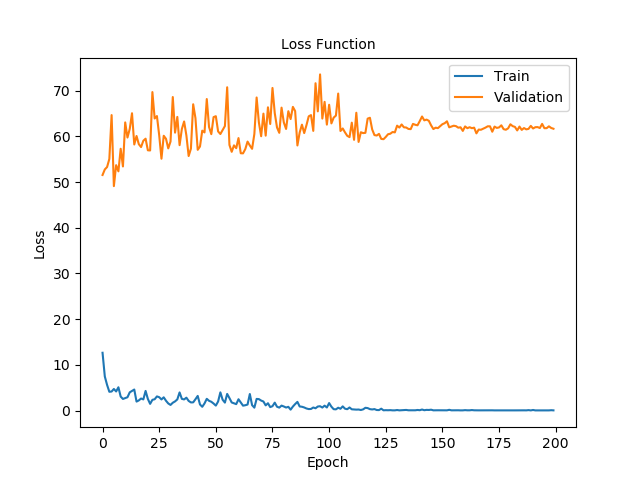
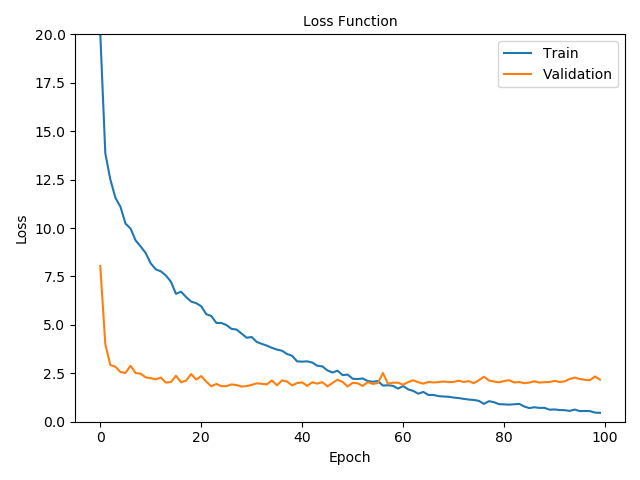
v.final

diff --git a/TP1_batchsize.py b/TP1_batchsize.py
@@ -1,0 +1,187 @@
+from minicifar import minicifar_train, minicifar_test, train_sampler, valid_sampler
+from torch.utils.data.dataloader import DataLoader
+
+"""Train CIFAR10 with PyTorch."""
+import torch
+import torch.nn as nn
+import torch.optim as optim
+import torch.nn.functional as F
+import torch.backends.cudnn as cudnn
+
+import torchvision
+import torchvision.transforms as transforms
+
+import os
+import argparse
+
+import matplotlib.pyplot as plt
+
+from models import *
+from utils import progress_bar
+
+
+parser = argparse.ArgumentParser(description="PyTorch CIFAR10 Training")
+# parser.add_argument("--lr", default=0.1, type=float, help="learning rate")
+parser.add_argument("--resume", "-r", action="store_true", help="resume from checkpoint")
+parser.add_argument("--nepochs", "-n", default=100, type=int, help="number of epochs")
+args = parser.parse_args()
+
+device = "cuda" if torch.cuda.is_available() else "cpu"
+best_acc = 0  # best test accuracy
+start_epoch = 0  # start from epoch 0 or last checkpoint epoch
+
+loss_train = []
+loss_test = []
+# n_epochs = 50
+n_epochs = args.nepochs
+
+# Data
+print("==> Preparing data..")
+transform_train = transforms.Compose(
+    [
+        transforms.RandomCrop(32, padding=4),
+        transforms.RandomHorizontalFlip(),
+        transforms.ToTensor(),
+        transforms.Normalize((0.4914, 0.4822, 0.4465), (0.2023, 0.1994, 0.2010)),
+    ]
+)
+
+transform_test = transforms.Compose(
+    [
+        transforms.ToTensor(),
+        transforms.Normalize((0.4914, 0.4822, 0.4465), (0.2023, 0.1994, 0.2010)),
+    ]
+)
+
+# Model
+print("==> Building model..")
+net = VGG("VGG11")
+
+net = net.to(device)
+if device == "cuda":
+    net = torch.nn.DataParallel(net)
+    cudnn.benchmark = True
+
+if args.resume:
+    # Load checkpoint.
+    print("==> Resuming from checkpoint..")
+    assert os.path.isdir("checkpoint"), "Error: no checkpoint directory found!"
+    checkpoint = torch.load("./checkpoint/ckpt.pth")
+    net.load_state_dict(checkpoint["net"])
+    best_acc = checkpoint["acc"]
+    start_epoch = checkpoint["epoch"]
+
+
+fig1 = plt.figure()
+
+for batch_size in [50, 100, 200, 400, 800]:
+    trainloader = DataLoader(minicifar_train, batch_size=batch_size, sampler=train_sampler)
+    validloader = DataLoader(minicifar_train, batch_size=batch_size, sampler=valid_sampler)
+    testloader = DataLoader(minicifar_test, batch_size=batch_size)
+
+    # Training
+    def train(epoch):
+        global loss_train
+        print("\nEpoch: %d" % epoch)
+        net.train()
+        train_loss = 0
+        correct = 0
+        total = 0
+        for batch_idx, (inputs, targets) in enumerate(trainloader):
+            inputs, targets = inputs.to(device), targets.to(device)
+            optimizer.zero_grad()
+            outputs = net(inputs)
+            loss = criterion(outputs, targets)
+            loss.backward()
+            optimizer.step()
+
+            train_loss += loss.item()
+            _, predicted = outputs.max(1)
+            total += targets.size(0)
+            correct += predicted.eq(targets).sum().item()
+
+            progress_bar(
+                batch_idx,
+                len(trainloader),
+                "Loss: %.3f | Acc: %.3f%% (%d/%d)"
+                % (train_loss / (batch_idx + 1), 100.0 * correct / total, correct, total),
+            )
+
+        loss_train.append(train_loss)
+
+    def test(epoch):
+        global best_acc
+        global loss_test
+        net.eval()
+        test_loss = 0
+        correct = 0
+        total = 0
+        with torch.no_grad():
+            for batch_idx, (inputs, targets) in enumerate(testloader):
+                inputs, targets = inputs.to(device), targets.to(device)
+                outputs = net(inputs)
+                loss = criterion(outputs, targets)
+
+                test_loss += loss.item()
+                _, predicted = outputs.max(1)
+                total += targets.size(0)
+                correct += predicted.eq(targets).sum().item()
+
+                progress_bar(
+                    batch_idx,
+                    len(testloader),
+                    "Loss: %.3f | Acc: %.3f%% (%d/%d)"
+                    % (test_loss / (batch_idx + 1), 100.0 * correct / total, correct, total),
+                )
+
+            loss_test.append(test_loss)
+
+        # Save checkpoint.
+        acc = 100.0 * correct / total
+        # if acc > best_acc:
+        #     print("Saving..")
+        #     state = {
+        #         "net": net.state_dict(),
+        #         "acc": acc,
+        #         "epoch": epoch,
+        #     }
+        #     if not os.path.isdir("checkpoint"):
+        #         os.mkdir("checkpoint")
+        #     torch.save(state, "./checkpoint/ckpt.pth")
+        #     best_acc = acc
+
+    def init_weights(layer):
+        # If convolutional layer, initialize with normal distribution
+        if type(layer) == nn.Conv2d:
+            nn.init.normal_(layer.weight, mean=0, std=0.5)
+        # If fully connected layer, initialize with uniform distribution with bias=0.1
+        elif type(layer) == nn.Linear:
+            nn.init.uniform_(layer.weight, a=-0.1, b=0.1)
+            nn.init.constant_(layer.bias, 0.1)
+
+    net.apply(init_weights)
+
+    loss_train = []
+    loss_test = []
+
+    criterion = nn.CrossEntropyLoss()
+    optimizer = optim.SGD(net.parameters(), lr=0.1, momentum=0.5, weight_decay=5e-4)
+    #! momentum=0.9, weight_decay=5e-4
+    scheduler = torch.optim.lr_scheduler.CosineAnnealingLR(optimizer, T_max=200)
+
+    for epoch in range(start_epoch, start_epoch + n_epochs):
+        train(epoch)
+        test(epoch)
+        scheduler.step()
+
+    plt.plot(range(n_epochs), loss_train, label=f"Train_batch={batch_size}")
+    plt.plot(range(n_epochs), loss_test, label=f"Validation_batch={batch_size}")
+
+plt.legend()  # prop={"size": 10}
+plt.title("Loss Function", size=10)
+plt.xlabel("Epoch", size=10)
+plt.ylabel("Loss", size=10)
+plt.ylim(ymax=20, ymin=0)
+plt.show()
+fig1.tight_layout()
+fig1.savefig("TP1_report/figure1.png")

diff --git a/TP1.py b/TP1.py
@@ -1,9 +1,9 @@
 from minicifar import minicifar_train, minicifar_test, train_sampler, valid_sampler
 from torch.utils.data.dataloader import DataLoader
 
-trainloader = DataLoader(minicifar_train, batch_size=200, sampler=train_sampler)
-validloader = DataLoader(minicifar_train, batch_size=200, sampler=valid_sampler)
-testloader = DataLoader(minicifar_test, batch_size=200)
+trainloader = DataLoader(minicifar_train, batch_size=800, sampler=train_sampler)
+validloader = DataLoader(minicifar_train, batch_size=800, sampler=valid_sampler)
+testloader = DataLoader(minicifar_test, batch_size=800)
 
 
 """Train CIFAR10 with PyTorch."""
@@ -26,7 +26,7 @@ from utils import progress_bar
 
 
 parser = argparse.ArgumentParser(description="PyTorch CIFAR10 Training")
-parser.add_argument("--lr", default=0.1, type=float, help="learning rate")
+parser.add_argument("--lr", default=0.03, type=float, help="learning rate")
 parser.add_argument("--resume", "-r", action="store_true", help="resume from checkpoint")
 parser.add_argument("--nepochs", "-n", default=100, type=int, help="number of epochs")
 args = parser.parse_args()
@@ -58,31 +58,10 @@ transform_test = transforms.Compose(
     ]
 )
 
-# trainset = torchvision.datasets.CIFAR10(root="./data", train=True, download=True, transform=transform_train)
-# trainloader = torch.utils.data.DataLoader(trainset, batch_size=128, shuffle=True, num_workers=2)
-
-# testset = torchvision.datasets.CIFAR10(root="./data", train=False, download=True, transform=transform_test)
-# testloader = torch.utils.data.DataLoader(testset, batch_size=100, shuffle=False, num_workers=2)
-
-# classes = ("plane", "car", "bird", "cat", "deer", "dog", "frog", "horse", "ship", "truck")
-
 # Model
 print("==> Building model..")
 net = VGG("VGG11")
-# net = ResNet18()
-# net = PreActResNet18()
-# net = GoogLeNet()
-# net = DenseNet121()
-# net = ResNeXt29_2x64d()
-# net = MobileNet()
-# net = MobileNetV2()
-# net = DPN92()
-# net = ShuffleNetG2()
-# net = SENet18()
-# net = ShuffleNetV2(1)
-# net = EfficientNetB0()
-# net = RegNetX_200MF()
-# net = SimpleDLA()
+
 net = net.to(device)
 if device == "cuda":
     net = torch.nn.DataParallel(net)
@@ -98,7 +77,7 @@ if args.resume:
     start_epoch = checkpoint["epoch"]
 
 criterion = nn.CrossEntropyLoss()
-optimizer = optim.SGD(net.parameters(), lr=args.lr, momentum=0.5, weight_decay=1e-3)
+optimizer = optim.SGD(net.parameters(), lr=args.lr, momentum=0.5, weight_decay=5e-4)
 #! momentum=0.9, weight_decay=5e-4
 scheduler = torch.optim.lr_scheduler.CosineAnnealingLR(optimizer, T_max=200)
 
@@ -190,10 +169,7 @@ plt.legend(["Train", "Validation"], prop={"size": 10})
 plt.title("Loss Function", size=10)
 plt.xlabel("Epoch", size=10)
 plt.ylabel("Loss", size=10)
+plt.ylim(ymax=20, ymin=0)
 plt.show()
 fig1.tight_layout()
 fig1.savefig("TP1_report/figure1.png")
-
-
-# TODO
-# Try to play with hyperparameters e.g. batch, epoch, lr, optimizer

diff --git a/TP1_hyperparameters.py b/TP1_hyperparameters.py
@@ -145,17 +145,17 @@ def test(epoch):
 
     # Save checkpoint.
     acc = 100.0 * correct / total
-    if acc > best_acc:
-        print("Saving..")
-        state = {
-            "net": net.state_dict(),
-            "acc": acc,
-            "epoch": epoch,
-        }
-        if not os.path.isdir("checkpoint"):
-            os.mkdir("checkpoint")
-        torch.save(state, "./checkpoint/ckpt.pth")
-        best_acc = acc
+    # if acc > best_acc:
+    #     print("Saving..")
+    #     state = {
+    #         "net": net.state_dict(),
+    #         "acc": acc,
+    #         "epoch": epoch,
+    #     }
+    #     if not os.path.isdir("checkpoint"):
+    #         os.mkdir("checkpoint")
+    #     torch.save(state, "./checkpoint/ckpt.pth")
+    #     best_acc = acc
 
 
 def init_weights(layer):

diff --git a/minicifar.py b/minicifar.py
@@ -7,6 +7,7 @@
 # Reduction factor R (which will result in 10000 /  R examples per class for the train set, and 1000 / R per class for test)
 # --
 
+#!
 
 n_classes_minicifar = 4
 train_size = 0.8

diff --git a/TP1_report/TP1_report.md b/TP1_report/TP1_report.md
@@ -18,6 +18,9 @@ Choose a model among the following ones :
 
 Next, adapt its hyperparameters to make the model suitable for MINICIFAR, and train it from scratch. 
 
+### Architecture of VGG
+
+
 ### Play with hyperparameters
 
 **Hyperparameters to modify:**
@@ -66,20 +69,20 @@ This figure shows the loss function with different `batch_size`. In this case we
 ### Deal with overfitting
 
 **Main idea:** `weight_decay` -> `VGG11` -> More data
+To deal with overfitting, we firstly think about regularization by using `weight_decay`. Unfortunately we were not able to obtain satisfactory results and it is easy to cause underfitting.
 
+We then considered reducing the depth of the network, so we tried VGG11. This time our overfitting improved and the network was computed faster.
 
+Later, we noticed that we were using only one-fifth of the dataset, and increasing the number of samples is always the most efficient way to solve overfitting. The cost is higher storage space requirements and longer computation time, but these are acceptable for the current computing power we have.
 
 Finally with `weight_decay=5e-4`, `lr=0.03`, `batch_size=800` and 100 epoch on VGG11, we get this figure with a accuracy of **91.275%**.
-
-
-
-
+<img src="Vgg11_Lr0.3.png" alt="Vgg11_Lr0.3" style="zoom:72%;" />
 
 
 ### TASK 2. Figure Accuracy vs Number of Parameters
 Consider the four models of TASK 1. and, taking in account the [accuracy obtained on CIFAR10](https://github.com/kuangliu/pytorch-cifar), generate a graph accuracy vs number of parameters.
 
-[image]
+<img src="accuracy.png" alt="accuracy" style="zoom:100%;" />
 
 
 
